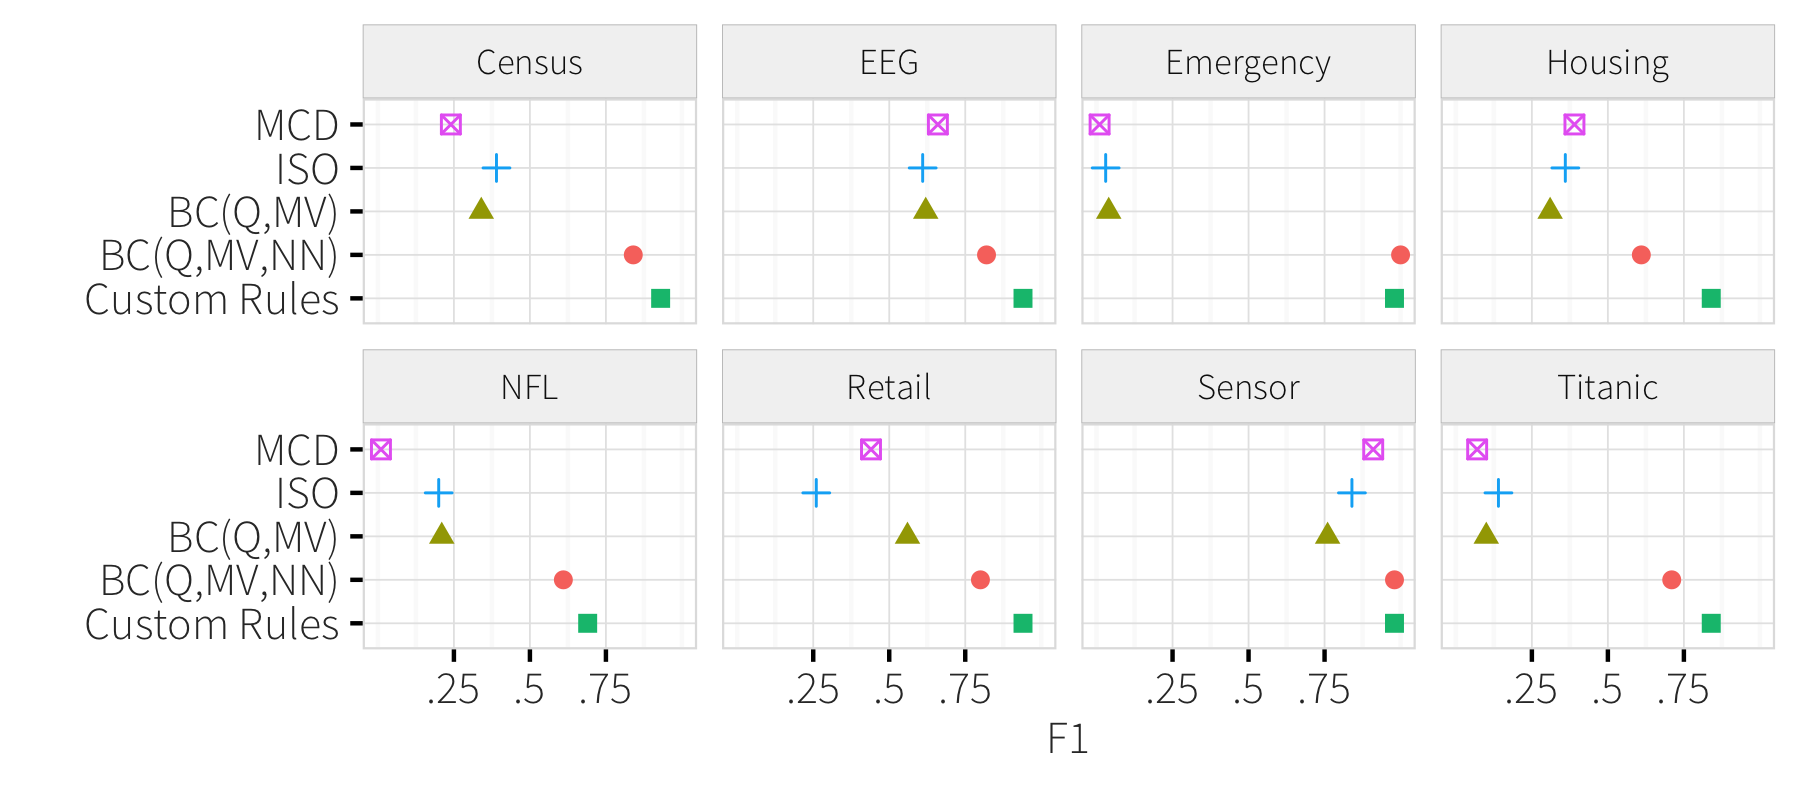
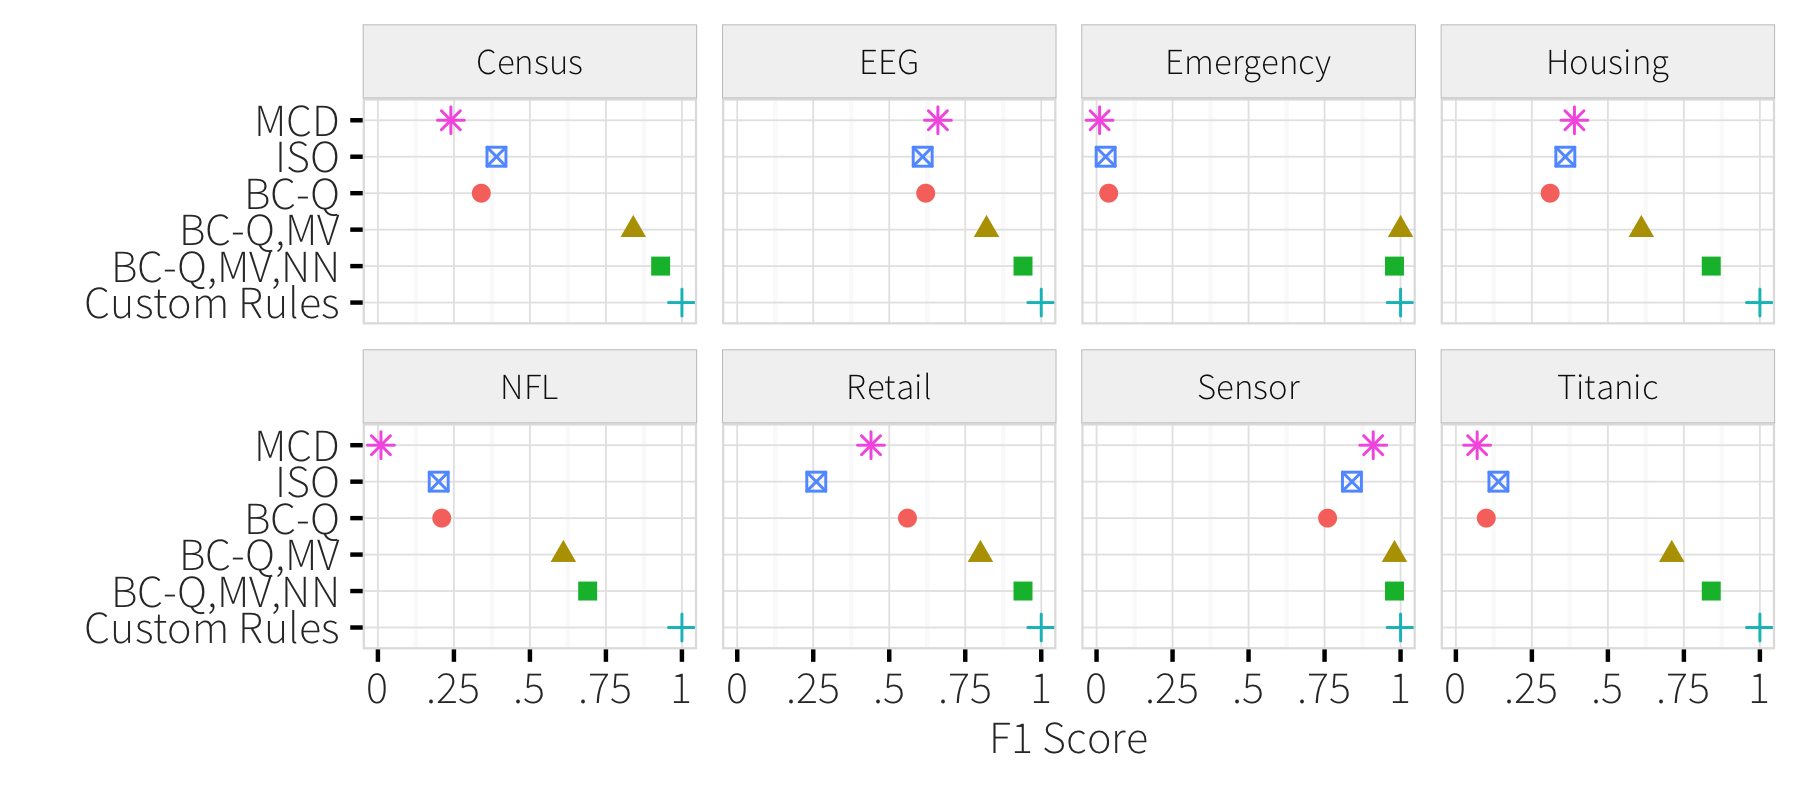
plot script

diff --git a/analysis/plot.py b/analysis/plot.py
@@ -22,7 +22,7 @@ rows = [[0.24 , 0.39  , 0.34   , 0.84   , 0.93  ,  1],
 [0.01  ,  0.03   , 0.04   , 1  , 0.98   , 1],
 [0.66  ,  0.61  ,  0.62  ,  0.82  ,  0.94 ,   1]]
 datasets = ['Census', 'Housing', 'Sensor', 'NFL', 'Titanic', 'Retail' , 'Emergency', 'EEG']
-approaches = ['MCD', 'ISO', 'BC(Q,MV)', 'BC(Q,MV,NN)', 'Custom Rules']
+approaches = ['MCD', 'ISO', 'BC-Q', 'BC-Q,MV', 'BC-Q,MV,NN', 'Custom Rules']
 
 data = []
 for dataset, row in zip(datasets, rows):
@@ -43,20 +43,23 @@ p += facet_wrap("~dataset", ncol=4)
 p += coord_flip()
 p += geom_point(size=1.8)
 p += guides(shape="FALSE", size="FALSE")
-p += axis_labels("", "F1", "discrete", "continuous", xkwargs=dict(lim=map(esc, list(reversed(approaches)))), ykwargs=dict(lim=[0,1], breaks=[0.25, .5, .75], labels=map(esc, [".25", ".5", ".75"])))
+p += axis_labels("", "F1 Score", "discrete", "continuous", 
+    xkwargs=dict(lim=map(esc, list(reversed(approaches)))), 
+    ykwargs=dict(lim=[0,1], breaks=[0, 0.25, .5, .75, 1], labels=map(esc, ["0", ".25", ".5", ".75", "1"])))
 p += legend_none
 ggsave("daccuracy.png", p, width=8, height=3.5, scale=scale)
 
 
 
+
 rows = [[106.1 ,  3.2, 1.3 ,4.4, 5.7, 2.5],
-[16.1 ,   0.7 ,0.06   , 0.14 ,   0.56    ,0.09],
-[567, 62.9   , 7.3 ,9.6, 25.4 ,   10.1],
-[1078.4 , 183 ,64.1  ,  69.6   , 88.4   , 64.1],
-[59.4   , 14.5  ,  6.1, 6.4,8.5 ,6.6],
-[5672.6 , 234.7  , 88.7  ,  96.7 ,   183.4 ,  94.3],
-[877.2  , 145.1  , 36.1 ,   56.9  ,  148.5,   50.5],
-[1453.1 , 556.4  , 49.3  ,  82.1  ,  169.4 ,  48.1]]
+  [16.1 ,   0.7 ,0.06   , 0.14 ,   0.56    ,0.09],
+  [567, 62.9   , 7.3 ,9.6, 25.4 ,   10.1],
+  [1078.4 , 183 ,64.1  ,  69.6   , 88.4   , 64.1],
+  [59.4   , 14.5  ,  6.1, 6.4,8.5 ,6.6],
+  [5672.6 , 234.7  , 88.7  ,  96.7 ,   183.4 ,  94.3],
+  [877.2  , 145.1  , 36.1 ,   56.9  ,  148.5,   50.5],
+  [1453.1 , 556.4  , 49.3  ,  82.1  ,  169.4 ,  48.1]]
 
 data = []
 for dataset, row in zip(datasets, rows):
@@ -71,10 +74,11 @@ p += coord_flip()
 p += geom_point(size=1.8)
 p += legend_none
 p += guides(shape="FALSE", size="FALSE")
-p += axis_labels("", "Time (s, log)", "discrete", "log10", xkwargs=dict(lim=map(esc, list(reversed(approaches)))), ykwargs=dict(breaks=[1, 60, 60*60, 3*60*60], labels=map(esc, ["1s", "1m", "1hr", "3hr"])))
+p += axis_labels("", "Time (s, log)", "discrete", "log10", 
+    xkwargs=dict(lim=map(esc, list(reversed(approaches)))),
+    ykwargs=dict(breaks=[1, 60, 60*60], labels=map(esc, ["1s", "1m", "1hr"])))
 ggsave("druntime.png", p, width=8, height=3.5, scale=scale)
 
-exit()
 
 
 
@@ -172,6 +176,7 @@ p += guides(shape="FALSE", size="FALSE")
 p += axis_labels("", "Time", "discrete", "continuous", 
     xkwargs=dict(lim=map(esc, labels[1:])),
     ykwargs=dict(breaks=[10*60, 20*60, 30*60], labels=map(esc, ["10m", "20min", "30min"])))
+p += ggtitle(esc("Training Runtime on FEC"))
 ggsave("runtime.png", p, width=8, height=3.5, scale=scale)
 
 
